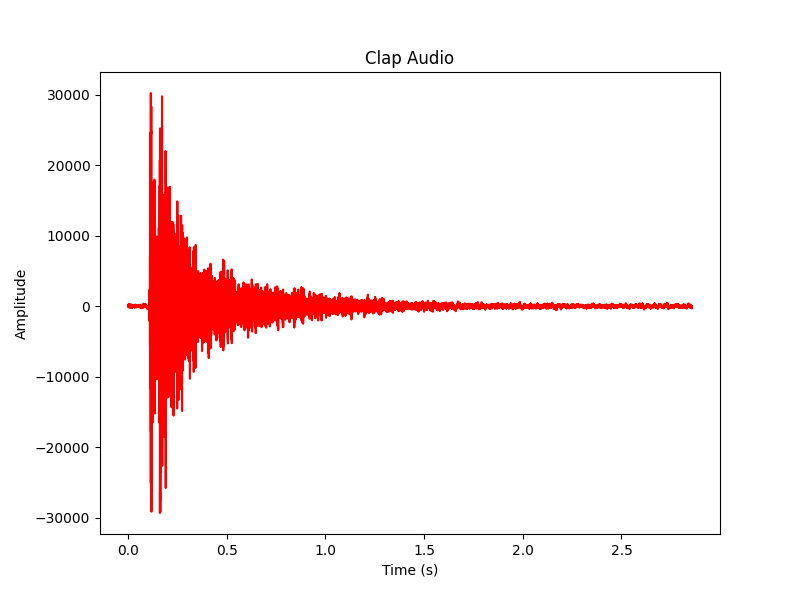
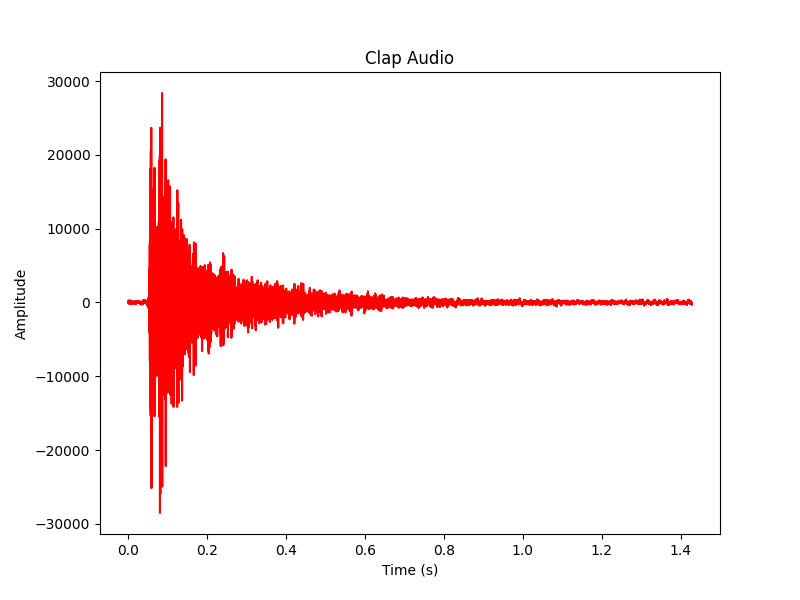
MVC format further implemented

diff --git a/model.py b/model.py
@@ -18,7 +18,8 @@ def mp3_to_wav(mp3_audio):
     
     sound = AudioSegment.from_mp3(mp3_audio)
     sound.export(wav_audio, format='wav')
-    return sound
+    debugg(f"sound: {wav_audio}")
+    return wav_audio
 
 # Returns all .wav and .mp3 files as .wav files
 def get_audio_files():
@@ -34,14 +35,12 @@ def get_audio_files():
     return audio_files
 
 # Strips extra channels and metadata
-def channel_stripper():
-    audio_files = get_audio_files()
-    for file in audio_files:
-        raw_audio = AudioSegment.from_file(file, format="wav")
-        mono_wav = raw_audio.set_channels(1)
-        mono_wav.export(file, format="wav")
-        mono_wav_audio = AudioSegment.from_file(file, format="wav")
-        file = mono_wav_audio
+def audio_stripper(audio_file):
+    raw_audio = AudioSegment.from_file(audio_file, format="wav")
+    mono_wav = raw_audio.set_channels(1)
+    mono_wav.export(audio_file, format="wav")
+    debugg(f"mono_wav path: {audio_file}")
+    return audio_file
 
 # Find a nearest value
 def find_nearest_value(array, value):
@@ -73,60 +72,59 @@ def frequency_check():
     data_in_db_fun = 10 * np.log10(data_for_frequency)
     return data_in_db_fun
 
-
-# All audio files as .wav
-audio_files = get_audio_files()
-
-# Getting all sample rates and data from first audio file
-sample_rate, data = wavfile.read(audio_files[0])
-
-spectrum, freqs, t, im = plt.specgram(data, Fs=sample_rate, \
-NFFT=1024, cmap=plt.get_cmap('autumn_r'))
-
-
-
 # --------------------
-data_in_db = frequency_check()
-plt.figure()
+def calulate_rt60(audio_file):
+    # Getting sample rates and data from audio file
+    sample_rate, data = wavfile.read(audio_file)
 
-# Plot reverb time on grid
-plt.plot(t, data_in_db, linewidth=1, alpha=0.7, color='#004bc6')
-plt.xlabel('Time (s)')
-plt.ylabel('Power (dB)')
+    global freqs, spectrum
 
-# Find an index of a max value
-index_of_max = np.argmax(data_in_db)
+    spectrum, freqs, t, im = plt.specgram(data, Fs=sample_rate, \
+    NFFT=1024, cmap=plt.get_cmap('autumn_r'))
+    
+    data_in_db = frequency_check()
+    plt.figure()
 
-value_of_max = data_in_db[index_of_max]
+    # Plot reverb time on grid
+    plt.plot(t, data_in_db, linewidth=1, alpha=0.7, color='#004bc6')
+    plt.xlabel('Time (s)')
+    plt.ylabel('Power (dB)')
 
-plt.plot(t[index_of_max], data_in_db[index_of_max], 'go')
+    # Find an index of a max value
+    index_of_max = np.argmax(data_in_db)
 
-# Slice array from a max value
-sliced_array = data_in_db[index_of_max:]
+    value_of_max = data_in_db[index_of_max]
 
-value_of_max_less_5 = value_of_max - 5
+    plt.plot(t[index_of_max], data_in_db[index_of_max], 'go')
 
-# Getting index of the closest value in the data to the max value minus 5
-value_of_max_less_5 = find_nearest_value(sliced_array, value_of_max_less_5)
+    # Slice array from a max value
+    sliced_array = data_in_db[index_of_max:]
 
-index_of_max_less_5 = np.where(data_in_db == value_of_max_less_5)
+    value_of_max_less_5 = value_of_max - 5
 
-plt.plot(t[index_of_max_less_5], data_in_db[index_of_max_less_5], 'yo')
+    # Getting index of the closest value in the data to the max value minus 5
+    value_of_max_less_5 = find_nearest_value(sliced_array, value_of_max_less_5)
 
-# Slice array from a max -5dB
-value_of_max_less_25 = value_of_max - 25
+    index_of_max_less_5 = np.where(data_in_db == value_of_max_less_5)
 
-value_of_max_less_25 = find_nearest_value(sliced_array, value_of_max_less_25)
+    plt.plot(t[index_of_max_less_5], data_in_db[index_of_max_less_5], 'yo')
 
-index_of_max_less_25 = np.where(data_in_db == value_of_max_less_25)
+    # Slice array from a max -5dB
+    value_of_max_less_25 = value_of_max - 25
 
-plt.plot(t[index_of_max_less_25], data_in_db[index_of_max_less_25], 'ro')
-rt20 = (t[index_of_max_less_5] - t[index_of_max_less_25])[0]
+    value_of_max_less_25 = find_nearest_value(sliced_array, value_of_max_less_25)
 
-# Extraploating rt20 to get rt60
-rt60 = 3 * rt20
+    index_of_max_less_25 = np.where(data_in_db == value_of_max_less_25)
 
-debugg(f'The RT60 reverb time is {round(abs(rt60), 2)} seconds')
+    plt.plot(t[index_of_max_less_25], data_in_db[index_of_max_less_25], 'ro')
+    rt20 = (t[index_of_max_less_5] - t[index_of_max_less_25])[0]
+
+    plt.show()
+
+    # Extraploating rt20 to get rt60
+    rt60 = 3 * rt20
+
+    debugg(f'The RT60 reverb time is {round(abs(rt60), 2)} seconds')
 # --------------------
 
 

diff --git a/view.py b/view.py
@@ -1,4 +1,113 @@
 # This file will show how the model is presented and interacted with by
 # the user
 
+from model import *
+import os
+from tkinter import filedialog
+import tkinter as tk
+import numpy as np
+from PIL import Image, ImageTk
+import wave
+import matplotlib.pyplot as plt
 
+
+def load_audio_file():
+    #filedialogue allows user to pick file w button
+    #askopenfilename is just the request
+    file_types = ["*.wav", "*.mp3"]
+    file_path = filedialog.askopenfilename(title="Select Audio File", filetypes=[("Audio Files", file_types)])
+    #checks if user selects a file
+    if file_path:
+        debugg(f"file_path: {file_path}")
+        wave_file = clean_file(file_path)
+        plot_wave(wave_file)
+        plot_frequency_spectrum(wave_file)
+
+def clean_file(file_path):
+    # audio_file = open(file_path, 'rb')
+    # debugg(f"audio_file: {audio_file.name}")
+    # Checking if file is .mp3 and converting to .wav if so
+    if (os.path.splitext(file_path))[1] == ".mp3":
+        debugg(f"File extension: {(os.path.splitext(file_path))[1]}")
+        wave_file = mp3_to_wav(file_path)
+    else:
+        wave_file = wave.open(file_path, 'rb')
+    debugg(f"wave_file: {wave_file}")
+    # Stripping channels and metadata
+    wave_file = audio_stripper(wave_file)
+    return wave_file
+
+def plot_frequency_spectrum(file_path):
+    # Load audio file
+    wave_file = wave.open(file_path, 'rb')
+    framerate = wave_file.getframerate()
+    frames = wave_file.readframes(-1)
+    signal = np.frombuffer(frames, dtype=np.int16)
+
+   # Create a Matplotlib figure
+    fig, ax = plt.subplots(figsize=(8, 6))
+
+    # Calculate the Short-Time Fourier Transform (STFT)
+    result = plt.specgram(signal, NFFT=1024, Fs=framerate, noverlap=512, cmap='viridis')
+    Sxx = result[2]
+
+    # Displays for the chart
+    plt.xlabel('Time (s)')
+    plt.ylabel('Frequency (Hz)')
+    plt.title('Clap Audio')
+
+    # PIL Image from the Matplotlib figure
+    fig.canvas.draw()
+    img = Image.frombytes('RGB', fig.canvas.get_width_height(), fig.canvas.tostring_rgb())
+
+    # Display the image
+    photo = ImageTk.PhotoImage(img)
+    label.config(image=photo)
+    label.image = photo
+
+def plot_wave(file_path):
+    # Load audio file
+    wave_file = wave.open(file_path, 'rb')
+    framerate = wave_file.getframerate()
+    frames = wave_file.readframes(-1)
+    signal = np.frombuffer(frames, dtype=np.int16)
+
+    # Create a Matplotlib figure
+    fig, ax = plt.subplots(figsize=(8, 6))
+
+    # plot wave
+    time = np.linspace(0, len(signal) / framerate, num=len(signal))
+    plt.plot(time, signal, color='red')
+
+    # Displays for the chart
+    plt.xlabel('Time (s)')
+    plt.ylabel('Amplitude')
+    plt.title('Clap Audio')
+
+    #display as image instead of calling .show()
+    #.show does not work for the wave
+    image_path = 'waveform_plot.png'
+    plt.savefig(image_path)
+
+    #display image using tk
+    img = Image.open(image_path)
+    photo = ImageTk.PhotoImage(img)
+    label.config(image=photo)
+    label.image = photo
+
+def file_gui():
+    # Setting up main window with tkinter
+    root = tk.Tk()
+    root.title("Waveform")
+
+    # Create a button to load an audio file
+    load_button = tk.Button(root, text="Load Audio File", command=load_audio_file)
+    load_button.pack(pady=20, padx=30)
+
+    # Create a label to display the spectrogram image
+    global label
+    label = tk.Label(root)
+    label.pack()
+
+    # call 
+    root.mainloop()

diff --git a/wav_handler.py b/wav_handler.py
@@ -41,8 +41,8 @@ if __name__ == "__main__":
 def load_audio_file():
     #filedialogue allows user to pick file w button
     #askopenfilename is just the request
-
-    file_path = filedialog.askopenfilename(title="Select Audio File", filetypes=[("Audio Files", "*.wav")])
+    file_types = ["*.wav", "*.mp3"]
+    file_path = filedialog.askopenfilename(title="Select Audio File", filetypes=[("Audio Files", file_types)])
     #checks if user selects a file
     if file_path:
         plot_wave(file_path)

diff --git a/controller.py b/controller.py
@@ -5,7 +5,7 @@ from model import *
 from view import *
 
 def main():
-    pass
+    file_gui()
 
 if __name__ == "__main__":
     main()
